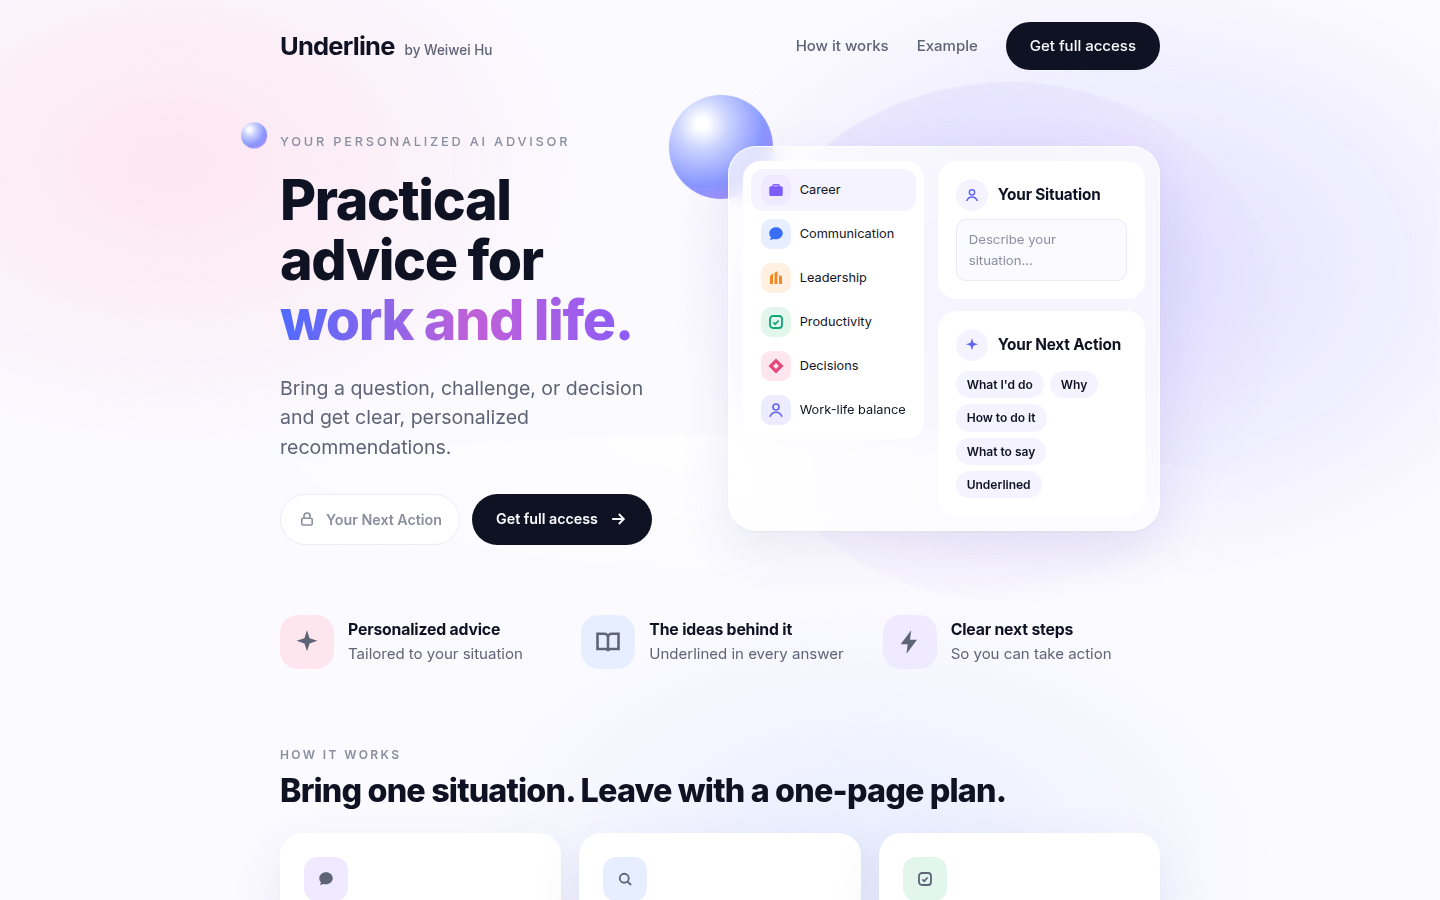
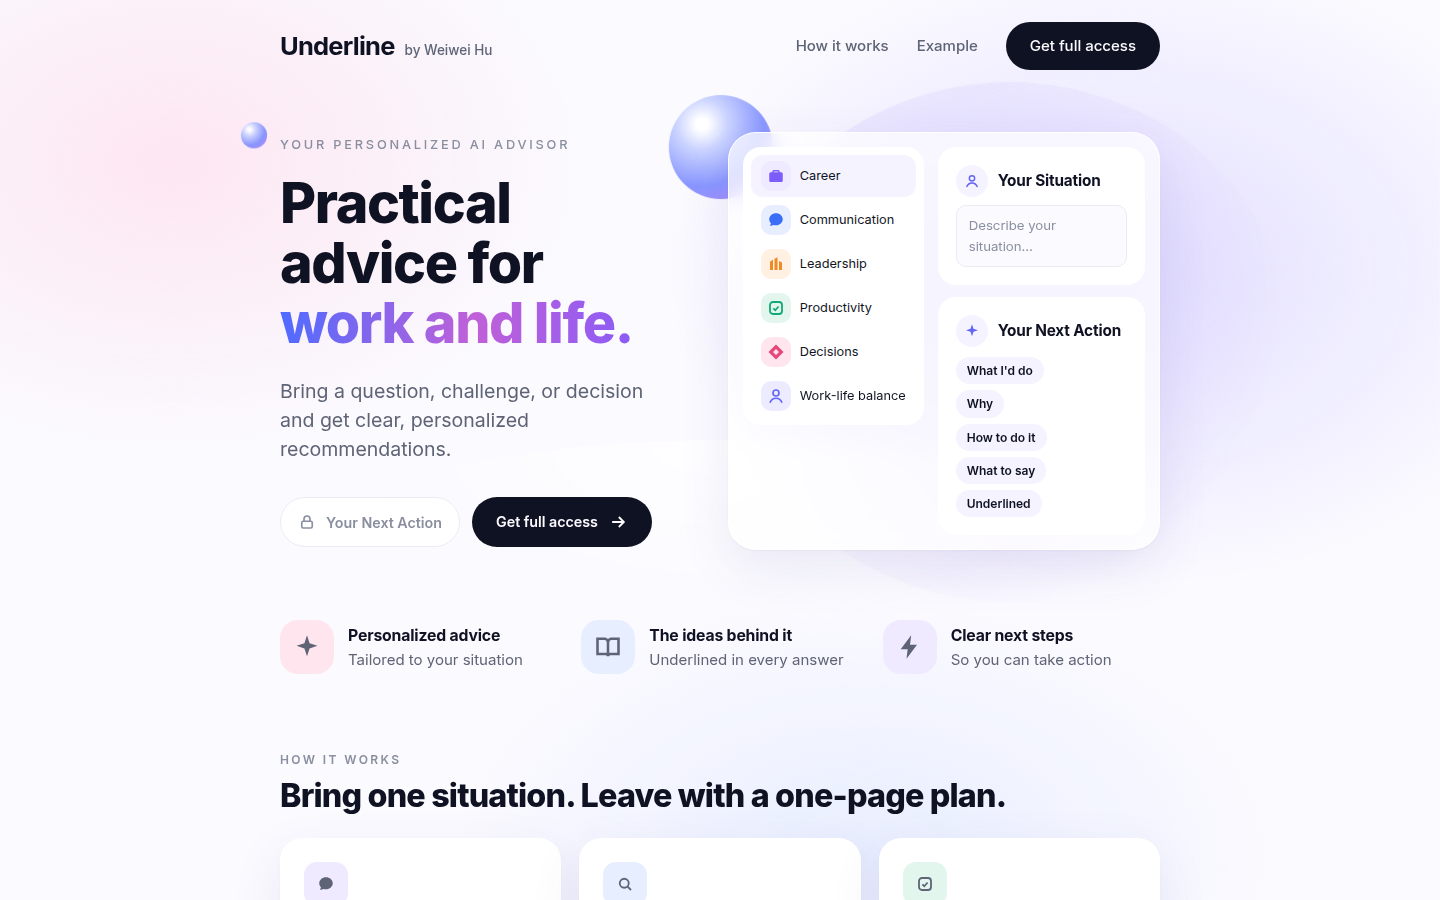
One-column Your Next Action, dark mode fixes, no sideways scroll on phones

diff --git a/index.html b/index.html
@@ -189,6 +189,41 @@ footer a svg{width:15px;height:15px}
 .hero .wave{position:absolute;z-index:-1;pointer-events:none;left:-30%;right:-30%;bottom:-120px;height:260px;border-radius:50%;background:radial-gradient(60% 100% at 50% 0%,rgba(255,255,255,.75),transparent 70%)}
 @media (prefers-reduced-motion:no-preference){.hero .blob{animation:float3 16s ease-in-out infinite}}
 @media (max-width:980px){.hero .blob{width:420px;height:420px;right:-120px;top:auto;bottom:0}}
+
+html{overflow-x:hidden}
+.hero .wave{left:0;right:0}
+.outs{flex-direction:column!important;flex-wrap:nowrap!important;gap:6px!important;align-items:flex-start}
+
+@media (prefers-color-scheme: dark){
+  :root:not([data-theme="light"]) body::before{background:radial-gradient(40% 45% at 12% 18%,rgba(226,91,166,.16),transparent 70%),radial-gradient(45% 50% at 78% 30%,rgba(139,92,246,.20),transparent 70%),radial-gradient(40% 40% at 60% 95%,rgba(79,107,255,.14),transparent 70%)}
+  :root:not([data-theme="light"]) .hero .wave{display:none}
+  :root:not([data-theme="light"]) .hero .blob{background:radial-gradient(circle at 40% 40%,rgba(139,92,246,.22),rgba(79,107,255,.10) 55%,transparent 72%)}
+  :root:not([data-theme="light"]) .c1{background:#2A2346;color:#B9A5FF}
+  :root:not([data-theme="light"]) .c2{background:#1E2A48;color:#8FB1FF}
+  :root:not([data-theme="light"]) .c3{background:#3A2A1C;color:#FFB36B}
+  :root:not([data-theme="light"]) .c4{background:#173329;color:#5FD8A8}
+  :root:not([data-theme="light"]) .c5{background:#3A1E2A;color:#FF7FA8}
+  :root:not([data-theme="light"]) .c6{background:#26264A;color:#A5A8FF}
+  :root:not([data-theme="light"]) .und .ic{background:#3A1E2A;color:#FF7FA8}
+  :root:not([data-theme="light"]) footer{background:var(--card);color:var(--soft);border:1px solid var(--line)}
+  :root:not([data-theme="light"]) footer a{background:var(--tint);color:var(--ink)}
+  :root:not([data-theme="light"]) .closing{background:linear-gradient(135deg,#2A1D33,#1E2142)}
+  :root:not([data-theme="light"]) .src{background:#26264A;color:#B9BCFF}
+}
+:root[data-theme="dark"] body::before{background:radial-gradient(40% 45% at 12% 18%,rgba(226,91,166,.16),transparent 70%),radial-gradient(45% 50% at 78% 30%,rgba(139,92,246,.20),transparent 70%),radial-gradient(40% 40% at 60% 95%,rgba(79,107,255,.14),transparent 70%)}
+:root[data-theme="dark"] .hero .wave{display:none}
+:root[data-theme="dark"] .hero .blob{background:radial-gradient(circle at 40% 40%,rgba(139,92,246,.22),rgba(79,107,255,.10) 55%,transparent 72%)}
+:root[data-theme="dark"] .c1{background:#2A2346;color:#B9A5FF}
+:root[data-theme="dark"] .c2{background:#1E2A48;color:#8FB1FF}
+:root[data-theme="dark"] .c3{background:#3A2A1C;color:#FFB36B}
+:root[data-theme="dark"] .c4{background:#173329;color:#5FD8A8}
+:root[data-theme="dark"] .c5{background:#3A1E2A;color:#FF7FA8}
+:root[data-theme="dark"] .c6{background:#26264A;color:#A5A8FF}
+:root[data-theme="dark"] .und .ic{background:#3A1E2A;color:#FF7FA8}
+:root[data-theme="dark"] footer{background:var(--card);color:var(--soft);border:1px solid var(--line)}
+:root[data-theme="dark"] footer a{background:var(--tint);color:var(--ink)}
+:root[data-theme="dark"] .closing{background:linear-gradient(135deg,#2A1D33,#1E2142)}
+:root[data-theme="dark"] .src{background:#26264A;color:#B9BCFF}
 </style>
 
 </head>
